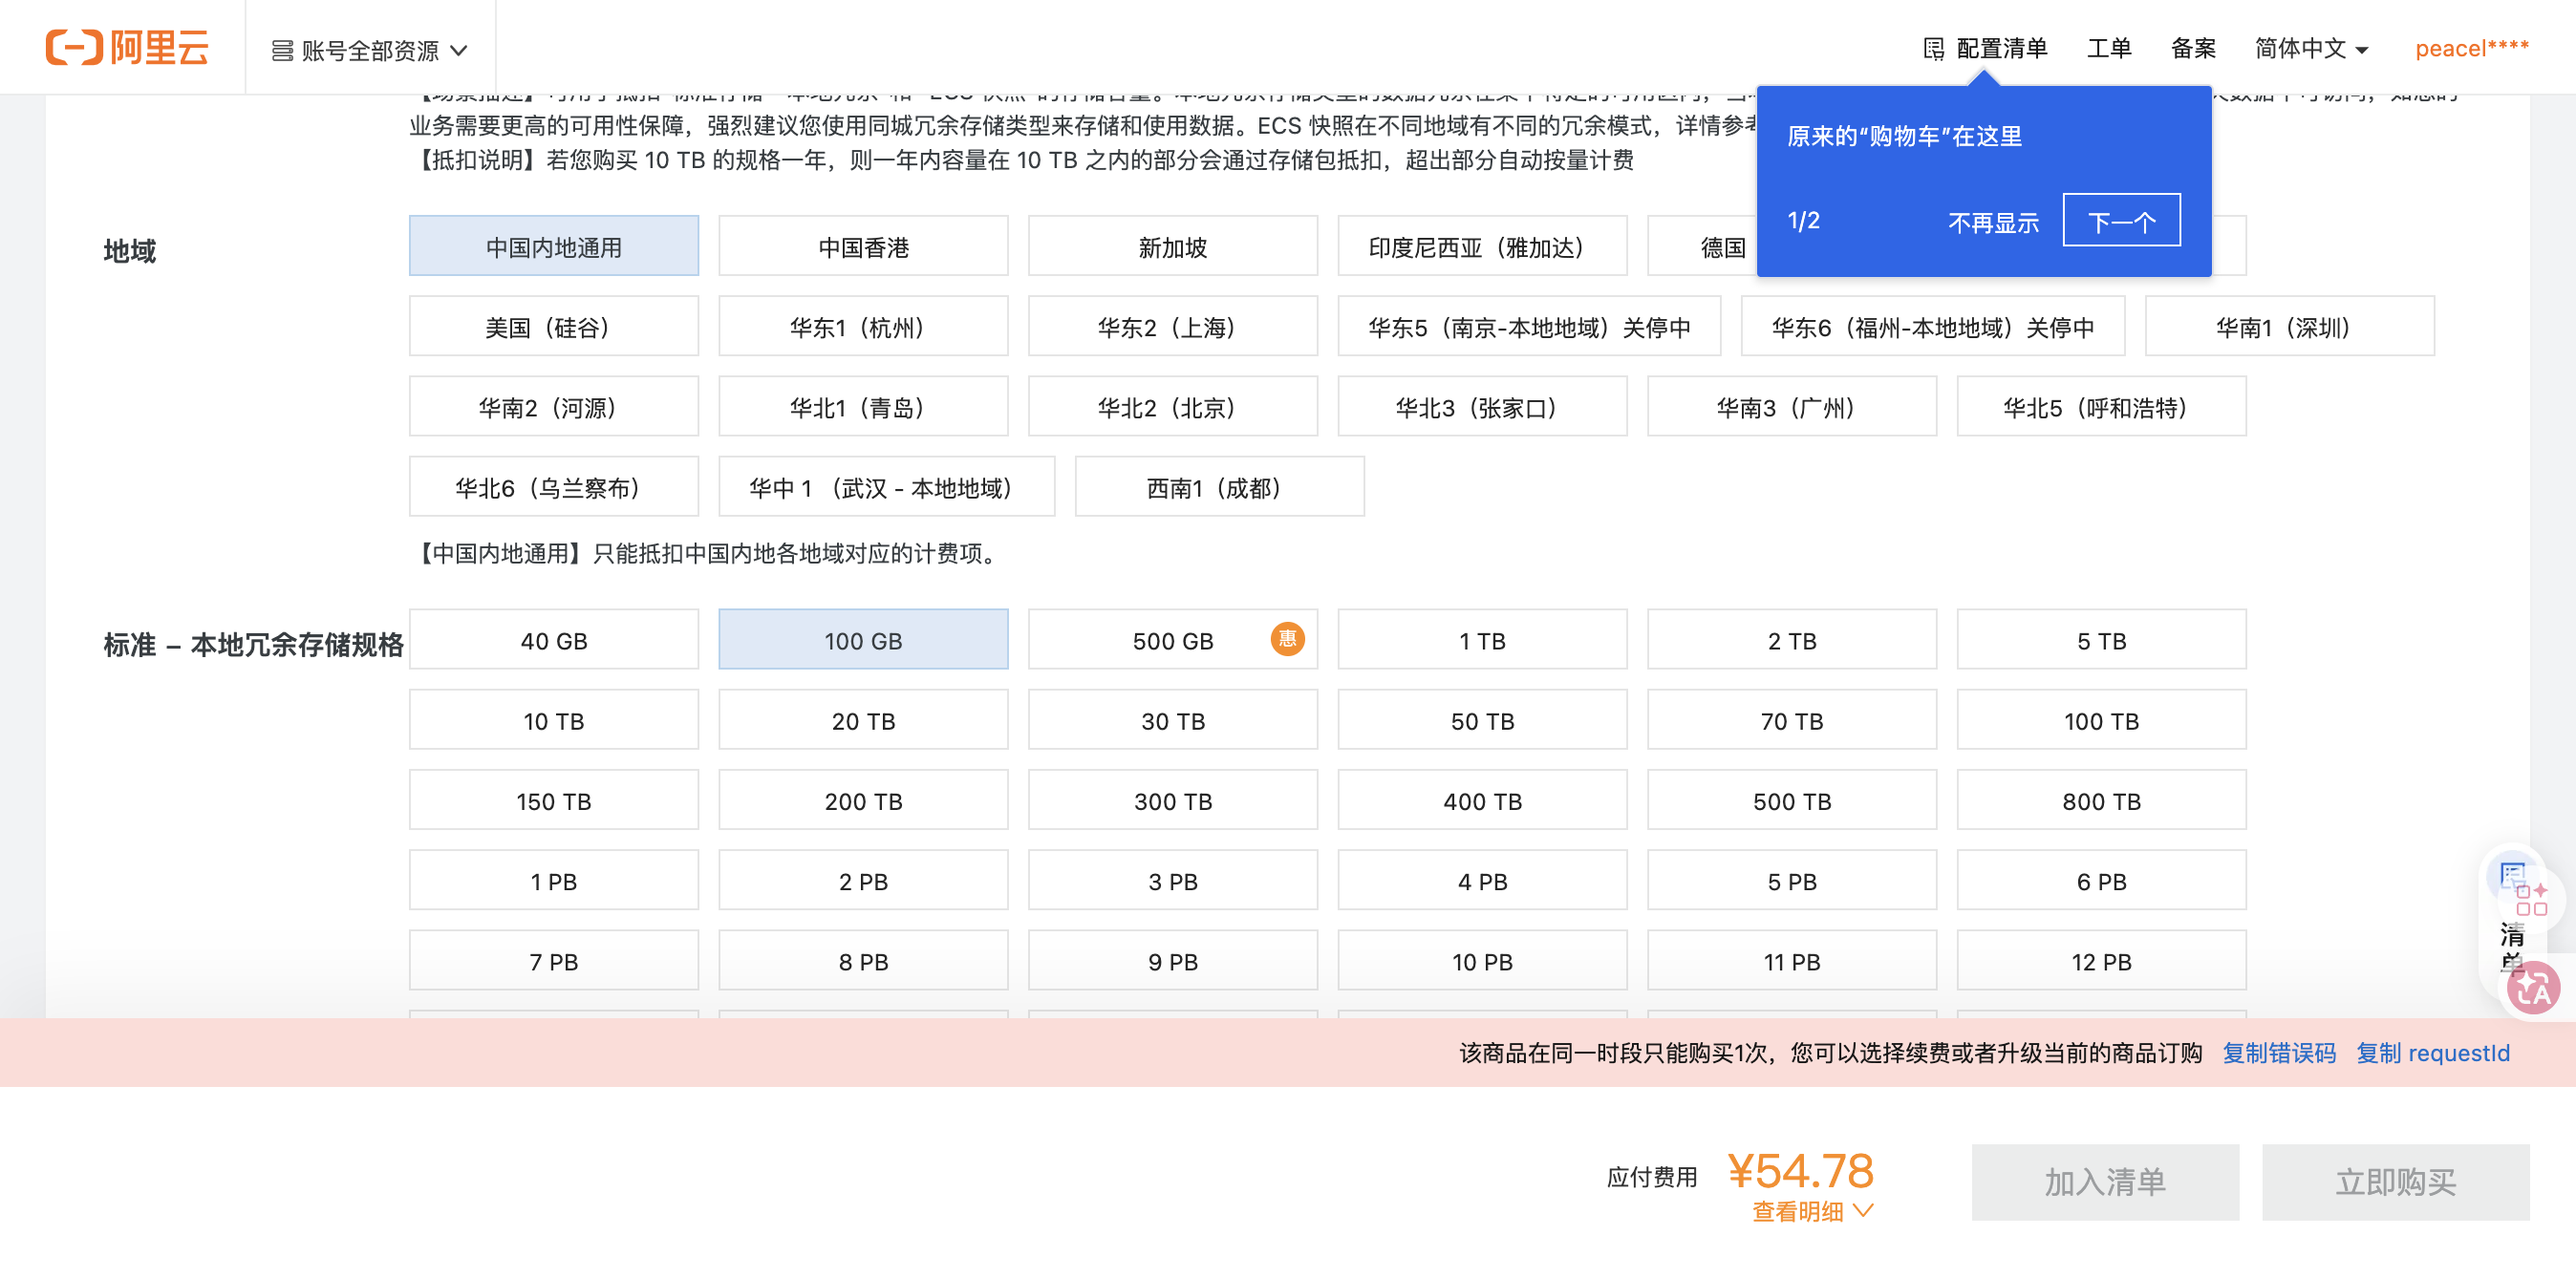
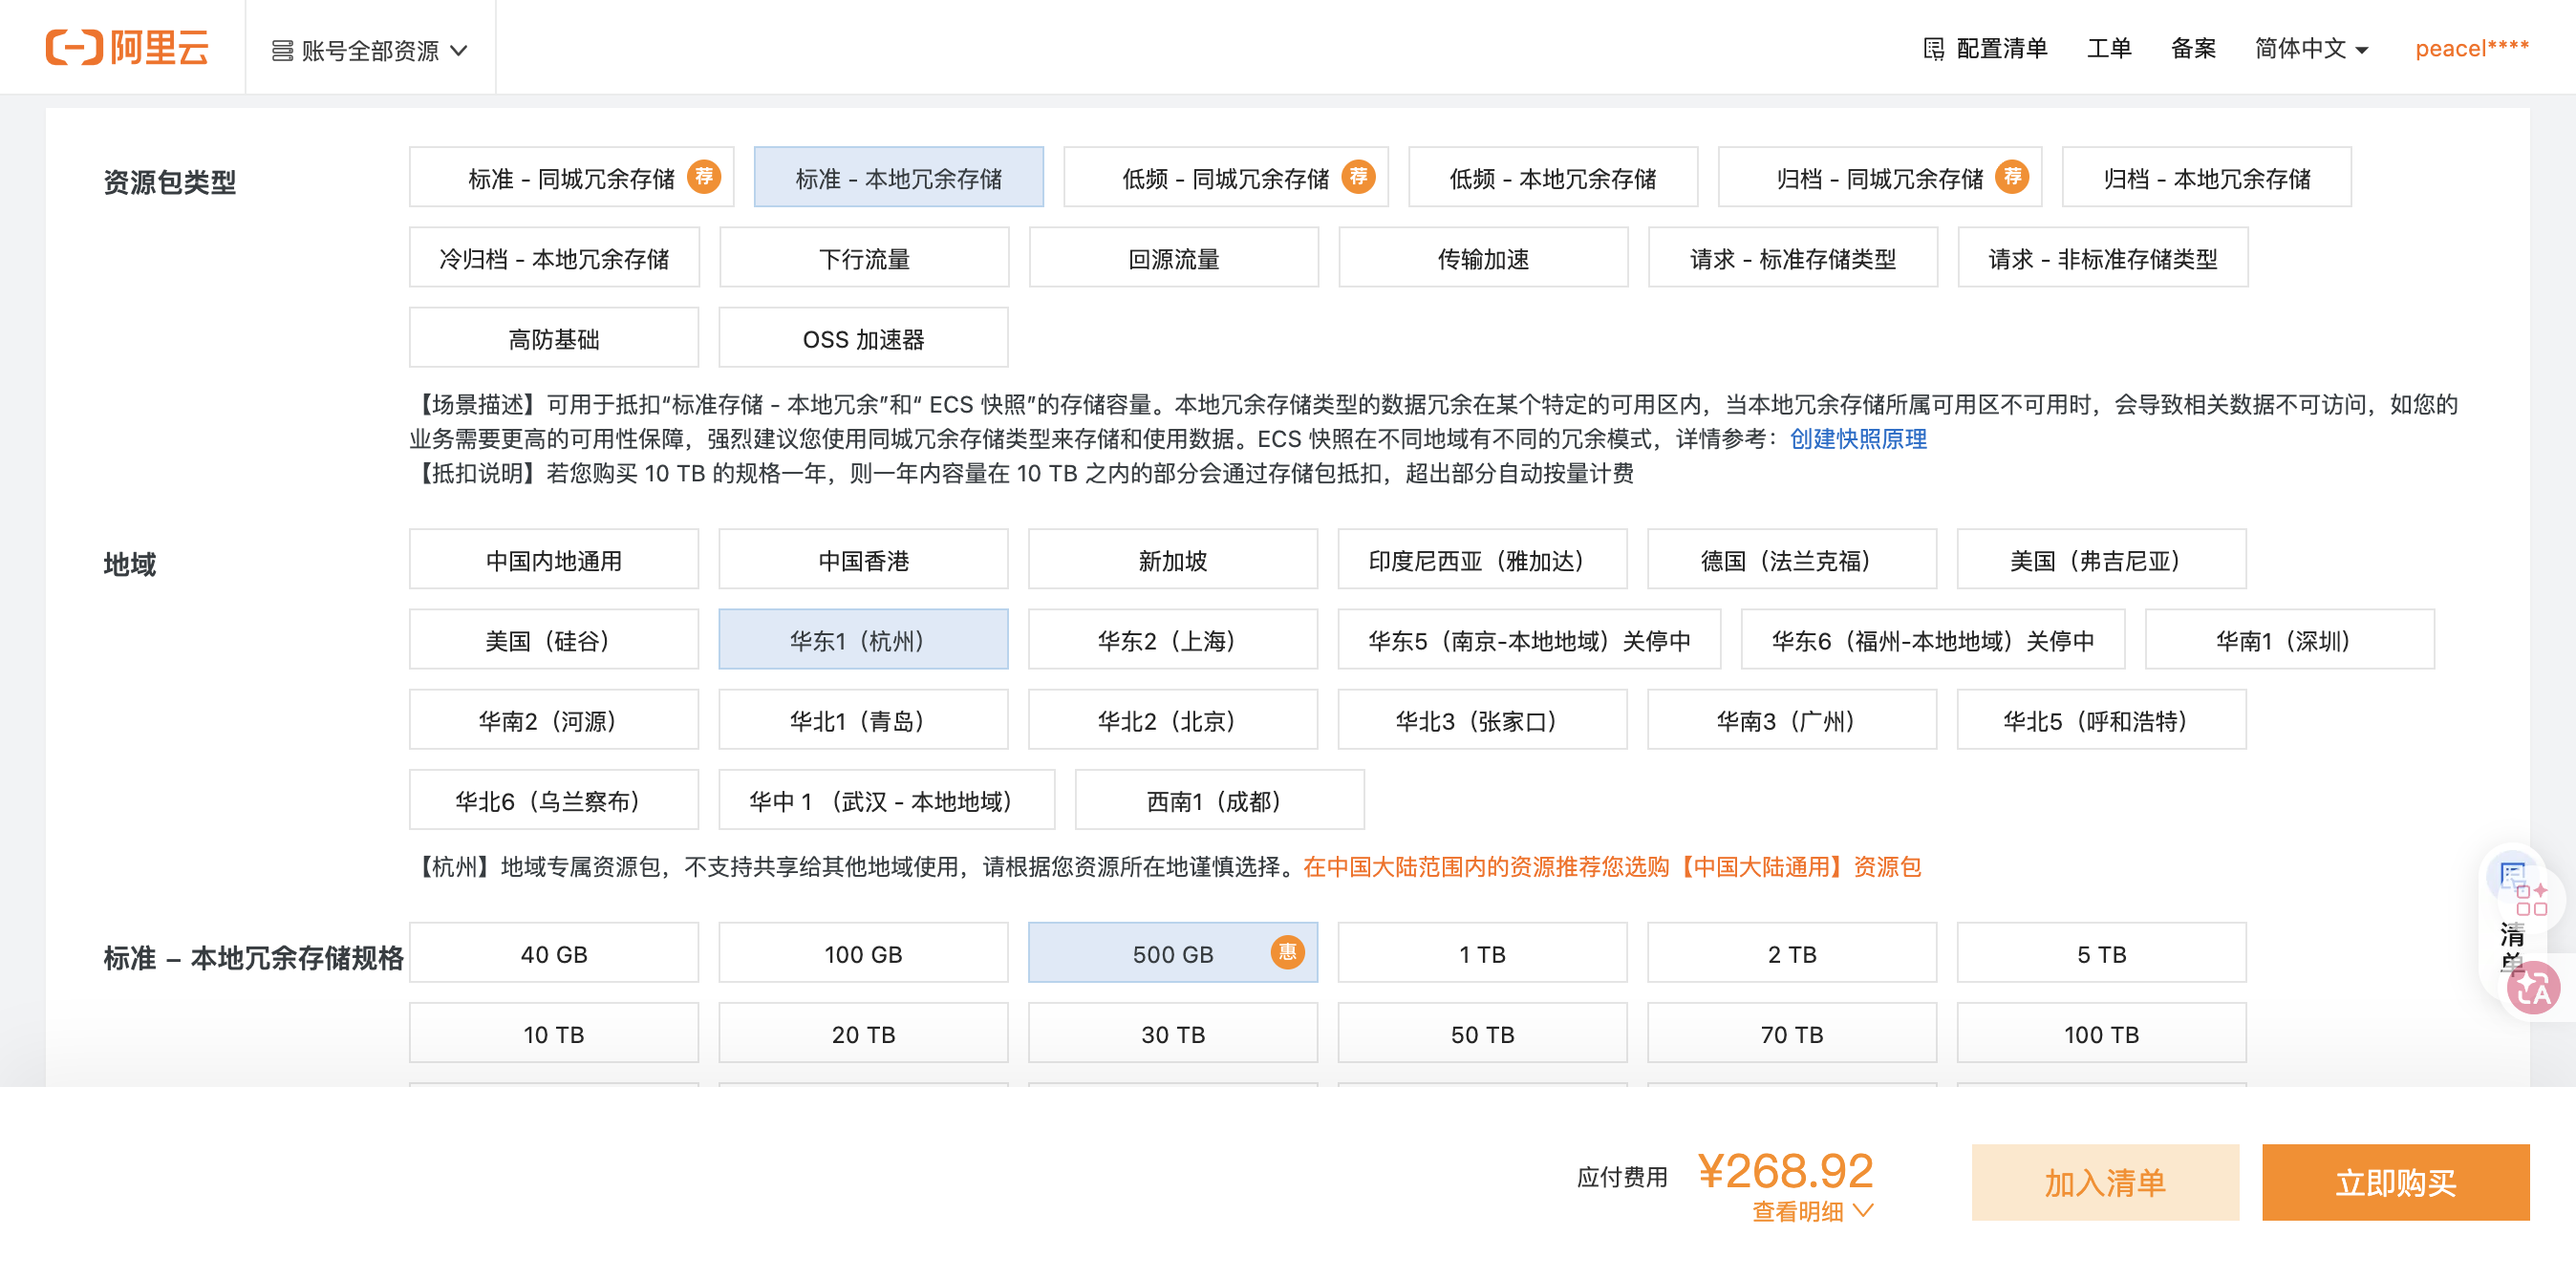
Update Aliyun purchase selections

diff --git a/docs/handoff/2026-05-18-aliyun-phase1-procurement-selection-handoff.md b/docs/handoff/2026-05-18-aliyun-phase1-procurement-selection-handoff.md
@@ -241,6 +241,7 @@ https://rdsbuy.console.aliyun.com/newCreate/rds/PostgreSQL
 计费方式：包年包月
 地域：华东 1（杭州）
 引擎：PostgreSQL 18.0
+SLR 授权：已授权
 产品系列：基础系列
 存储类型：高性能云盘
 网络类型：专有网络
@@ -255,18 +256,19 @@ VPC：自动创建
 参数模板：pgsql_18.0_基础系列_默认参数模版
 时区：Asia/Shanghai
 小版本升级策略：自动升级
-购买时长：1个月
-配置费用：¥168.00
+购买时长：1年
+配置费用：¥227.99
 ```
 
 人工下单前重点检查：
 
 ```text
-页面底部提示：SLR未授权，请在服务协议处勾选授权，以打通 RDS 实例的网络链路。
-该授权/协议需要人工确认后再下单。
+用户已完成 SLR 授权，页面当前显示“已授权”。
 
 自动续费未主动勾选；下单前再确认“启用自动续费”不要勾选。
 RDS 页面未打开公网访问入口，保持内网 / VPC 访问。
+
+当前 1 年价格明显低于按月价格，若确认正式环境走阿里云杭州，可按当前 1 年配置下单。
 ```
 
 ### 10.3 OSS 资源包页面
@@ -286,16 +288,16 @@ https://common-buy.aliyun.com/?commodityCode=ossbag#/buy
 ```text
 商品类型：OSS 资源包
 资源包类型：标准 - 本地冗余存储
-地域：中国内地通用
-规格：100GB
-购买时长：1个月
-应付费用：¥54.78
+地域：华东1（杭州）
+规格：500GB
+购买时长：6个月
+应付费用：¥268.92
 ```
 
 页面风险提示：
 
 ```text
-该商品在同一时段只能购买1次，您可以选择续费或者升级当前的商品订购。
+【杭州】地域专属资源包，不支持共享给其他地域使用，请根据资源所在地谨慎选择。
 ```
 
 人工下单前重点检查：
@@ -310,6 +312,36 @@ Bucket 仍需配置：
 - RAM 最小权限
 
 如果想按低阻塞方案走，也可以不买资源包，直接创建私有 Bucket 后按量付费。
+```
+
+### 10.4 多项目共用资源判断
+
+```text
+可以在同一台 8核16G ECS 上挂多个项目，但建议只作为早期/低并发阶段方案。
+方式：Nginx/Caddy 按二级域名反向代理到不同容器或进程，例如：
+- aigc.ba-ba-ke.com：AIGC 平台
+- api.ba-ba-ke.com：平台 API
+- admin.ba-ba-ke.com：管理端
+- other.ba-ba-ke.com：其他项目
+
+PostgreSQL 可以共用同一个 RDS 实例，但必须做逻辑隔离：
+- 每个项目独立 database 或 schema
+- 每个项目独立数据库账号
+- 最小权限授权
+- 独立备份/迁移记录
+- 不把无关项目的数据表混在同一个 schema
+
+OSS 可以共用同一个阿里云账号和同一地域资源包；实际 Bucket 建议按项目隔离：
+- aigc-prod-media
+- aigc-prod-private
+- other-prod-assets
+
+如果为了省事共用一个 Bucket，也至少要用独立 prefix、独立 RAM policy、独立生命周期策略。
+涉及用户自拍视频、声音、图片等个人信息/敏感个人信息时，不建议把多个项目素材混在同一 Bucket 根目录。
+
+ba-ba-ke.com 可以用不同二级域名挂不同项目。
+但合规上仍要按实际服务内容处理 ICP、公安备案、隐私政策、用户协议、算法备案/深度合成相关材料等事项。
+主域名备案不等于所有业务天然合规，只是域名接入层面更方便。
 ```
 
 ## 11. 本轮新增截图文件
